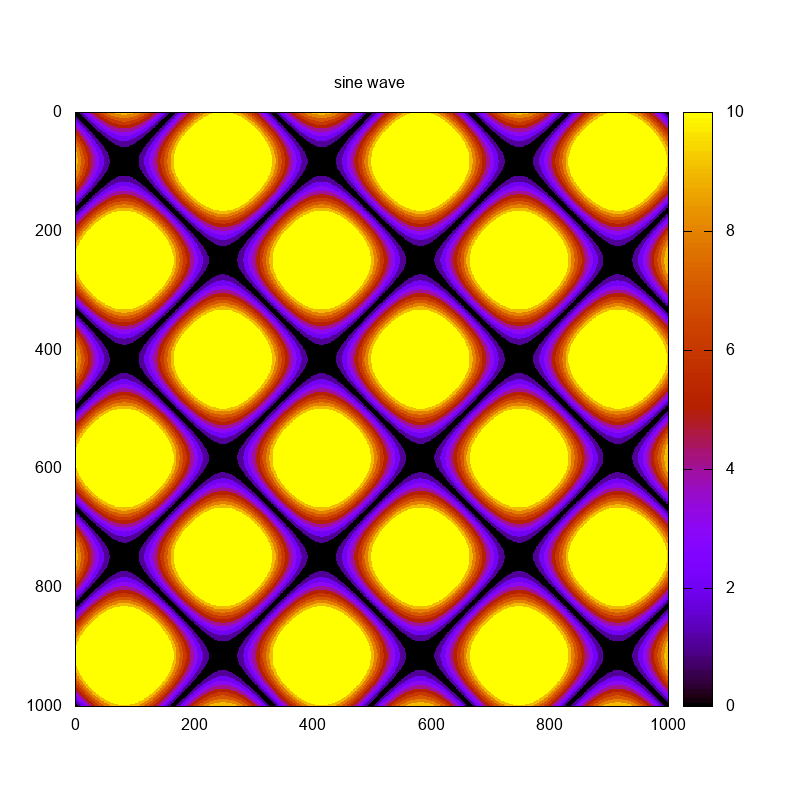
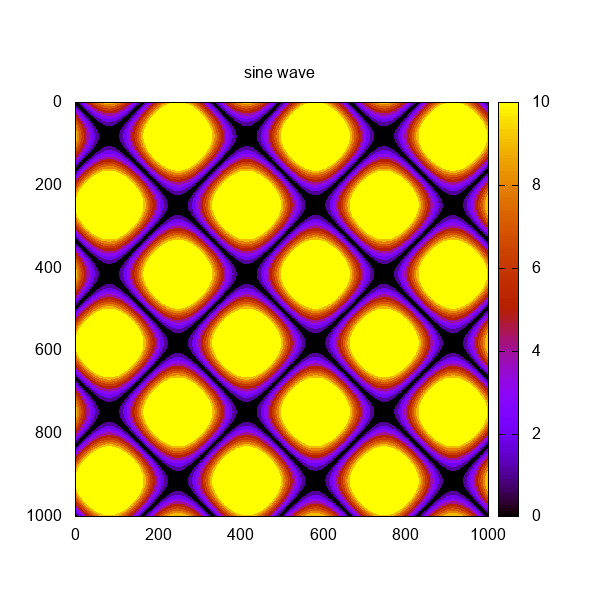
resize recurrence_plot_rb.png

diff --git a/recurrence_plot_r.rb b/recurrence_plot_r.rb
@@ -11,7 +11,7 @@ end
 
 Numo.gnuplot do
   reset
-  set term: "png", size:[800, 800]
+  set term: "png", size:[600, 600]
   set out: "recurrence_plot_rb.png"
   set xrange: 0..1000
   set yrange: 1000..0
